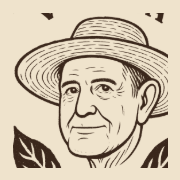
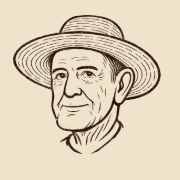
feat: o busto vira a marca do site, e a emenda com o contato ganha rasgo
A MARCA
A arte nova chegou 100% opaca, com o papel dela (#e2d2c4) pintado no
fundo, e esse papel e' mais escuro que o do site: posta como estava, ela
apareceria como um retangulo bege no meio da pagina. Como e' tinta
escura sobre papel claro, o alfa saiu da luminancia, com um piso no
percentil 2 da moldura para o grao do papel nao entrar como tinta, e a
cor foi desmisturada do papel, senao cada traco carregaria residuo bege
sobre fundo escuro. 6,9 MB viraram 207 KB.

Ela entra como <Busto>, irmao do <Selo>: a arte e' de uma tinta so',
entao serve de mascara e quem pinta e' o fundo. Isso deixa o desenho
sair no creme sobre a capa escura e na tinta sobre o papel, com um
arquivo so'.

O cabecalho volta a ter marca. Eu tinha tirado o selo de la' porque a
44 px o anel, o nome arqueado e os ramos viravam um borrao; o busto tem
o rosto grande o bastante para esse tamanho. O rodape e o icone da aba
passam a usar a mesma arte, entao a marca pequena e' uma so' em todo
lugar. O selo continua na capa e nos rotulos, que e' onde ele e' a peca
impressa.

A EMENDA
Contato e "A terra" eram os dois do papel do corpo, e emenda entre cores
iguais nao aparece. O contato passa para o creme e recebe o rasgo, que
agora tem o que revelar. O rodape ganhou o creme atras, senao a emenda
seguinte voltaria a mostrar tres tons.

diff --git a/src/components/Contato.tsx b/src/components/Contato.tsx
@@ -1,10 +1,14 @@
-import { Botao, Faixa, Rubrica, Selo } from "./base";
+import { Botao, Busto, Faixa, Rubrica } from "./base";
 import { MARCA, PROMO, zap } from "@/dados";
 
 export default function Contato() {
   return (
     <>
-      <Faixa id="contato" className="py-10 sm:py-12">
+      {/* Contato e "A terra" eram os dois do papel do corpo, e emenda entre
+          cores iguais não aparece. Passando o contato para o creme, o rasgo
+          tem o que revelar: a falha abre no papel da seção de cima. É o mesmo
+          arranjo da seção do pedido, logo abaixo dos cafés. */}
+      <Faixa id="contato" fundo="creme" className="rasgo-cima py-12 sm:py-14">
         <Rubrica>Contato</Rubrica>
 
         <h2 className="reveal mt-6 max-w-[20ch] text-[clamp(30px,4.4vw,52px)]">
@@ -170,10 +174,14 @@ export default function Contato() {
         </div>
       </Faixa>
 
+      {/* o rasgo do rodapé revela o que está atrás dele, e o que está atrás é
+          o corpo da página; sem esta cor, a emenda com o contato creme voltaria
+          a mostrar três tons */}
+      <div style={{ background: "#f6eede" }}>
       <footer className="rasgo-cima" style={{ background: "#3a271b", color: "#c0ab8c" }}>
         <div className="mx-auto w-[min(100%-2rem,1120px)] py-12 sm:w-[min(100%-2.5rem,1120px)] sm:py-14">
           <div className="flex flex-wrap items-center gap-4 sm:gap-5">
-            <Selo cor="#d8c3a0" className="h-14 w-14 shrink-0 sm:h-16 sm:w-16" />
+            <Busto cor="#d8c3a0" className="h-16 w-16 shrink-0 sm:h-[72px] sm:w-[72px]" />
             <div>
               <p
                 className="text-[22px] leading-none sm:text-[24px]"
@@ -201,6 +209,7 @@ export default function Contato() {
           </div>
         </div>
       </footer>
+      </div>
     </>
   );
 }

diff --git a/src/components/base.tsx b/src/components/base.tsx
@@ -1,6 +1,6 @@
 import { useCallback, useEffect, useId, useRef, useState, type ReactNode } from "react";
 import { createPortal } from "react-dom";
-import { selo } from "@/imagens";
+import { busto, selo } from "@/imagens";
 import ramoEsq from "@/assets/ramo-esq.webp";
 import ramoDir from "@/assets/ramo-dir.webp";
 import ramoEsqCurto from "@/assets/ramo-esq-curto.webp";
@@ -32,6 +32,42 @@ export function Selo({
         backgroundColor: cor,
         maskImage: `url(${selo})`,
         WebkitMaskImage: `url(${selo})`,
+        maskSize: "contain",
+        WebkitMaskSize: "contain",
+        maskRepeat: "no-repeat",
+        WebkitMaskRepeat: "no-repeat",
+        maskPosition: "center",
+        WebkitMaskPosition: "center",
+      }}
+    />
+  );
+}
+
+/**
+ * O busto, pintado numa cor exata.
+ *
+ * Mesma técnica do <Selo>: a arte é de uma tinta só sobre transparência, então
+ * ela serve de máscara e quem pinta é o fundo. É isso que deixa o desenho sair
+ * no creme da marca sobre a capa escura e na tinta sobre o papel, sem filtro e
+ * sem dois arquivos.
+ */
+export function Busto({
+  cor,
+  className = "",
+  rotulo,
+}: {
+  cor: string;
+  className?: string;
+  rotulo?: string;
+}) {
+  return (
+    <div
+      className={`transition-colors duration-300 ${className}`}
+      {...(rotulo ? { role: "img", "aria-label": rotulo } : { "aria-hidden": true })}
+      style={{
+        backgroundColor: cor,
+        maskImage: `url(${busto})`,
+        WebkitMaskImage: `url(${busto})`,
         maskSize: "contain",
         WebkitMaskSize: "contain",
         maskRepeat: "no-repeat",

diff --git a/src/components/Navegacao.tsx b/src/components/Navegacao.tsx
@@ -1,6 +1,7 @@
 import { useEffect, useState } from "react";
 import { MARCA, zap } from "@/dados";
 import { useResumo } from "@/carrinho";
+import { Busto } from "./base";
 import { registrarPedido } from "@/pedido";
 
 const ITENS = [
@@ -96,13 +97,19 @@ export default function Navegacao() {
         <a
           href="#topo"
           onClick={() => setAberto(false)}
-          className="flex shrink-0 items-center"
+          className="flex shrink-0 items-center gap-2.5"
         >
-          {/* O selo saiu daqui. Ele aparece grande na capa e é o ícone da aba;
-              no cabeçalho, a 44 px, virava um borrão de traços finos ao lado de
-              um nome pequeno. Sem ele, o nome ocupa o lugar dos dois. */}
+          {/* O selo inteiro não cabia aqui: a 44 px o anel, o nome arqueado e os
+              ramos viravam um borrão de traços finos. O busto sozinho tem o
+              rosto grande o bastante para se ler nesse tamanho, e é a mesma
+              arte do ícone da aba. */}
+          <Busto
+            rotulo={MARCA.nome}
+            cor={claro ? "#efe3cc" : "#3a271b"}
+            className="h-11 w-11 sm:h-[52px] sm:w-[52px]"
+          />
           <span
-            className="text-[26px] leading-none transition-colors duration-300 sm:text-[30px]"
+            className="text-[24px] leading-none transition-colors duration-300 sm:text-[28px]"
             style={{
               fontFamily: "Fraunces, Georgia, serif",
               fontVariationSettings: '"SOFT" 15, "WONK" 1, "opsz" 24',

diff --git a/src/imagens.ts b/src/imagens.ts
@@ -11,6 +11,7 @@
  */
 
 export { default as selo } from "@/assets/selo.png";
+export { default as busto } from "@/assets/busto.png";
 
 /* a lavoura hoje */
 export { default as jucaLavoura } from "@/assets/juca-lavoura.jpg";
